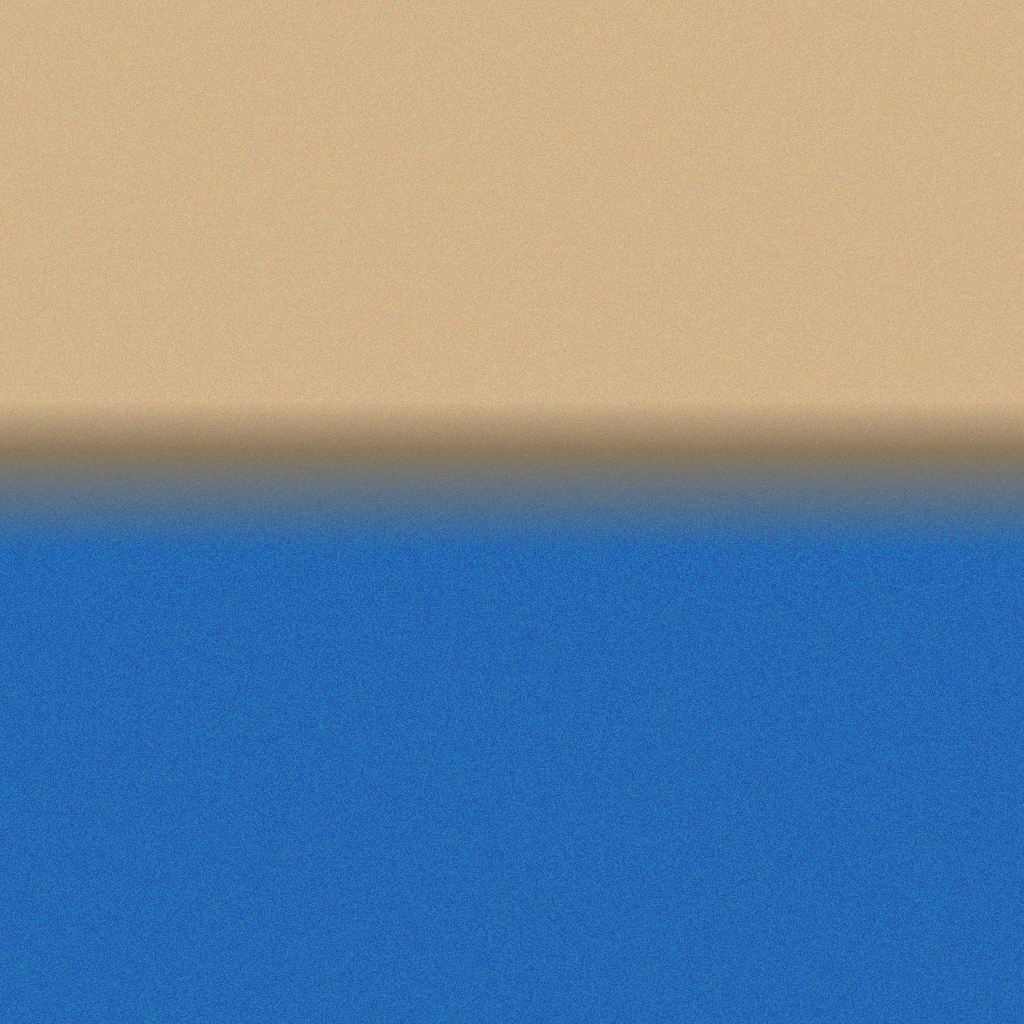
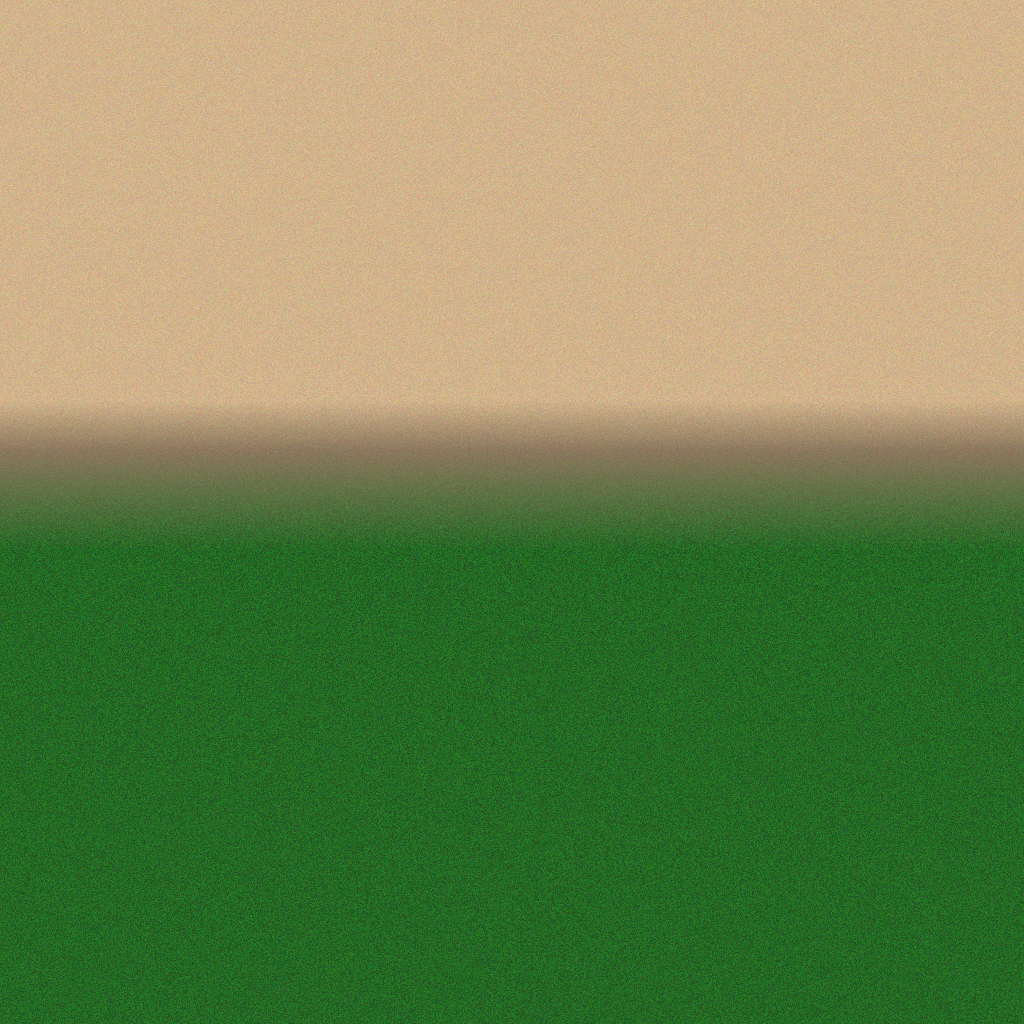
s

diff --git a/RedFortress2/MultiPassRendering/GameApp.cpp b/RedFortress2/MultiPassRendering/GameApp.cpp
@@ -1209,7 +1209,7 @@ void GameApp::UpdatePlayerByInput()
     }
 
     const bool isMoving  = (localMove.x != 0.0f || localMove.z != 0.0f);
-    const bool isWalking = isMoving && InputDevice::SKeyBoard::IsDown(DIK_LSHIFT);
+    const bool isWalking = isMoving && InputDevice::SKeyBoard::IsDown(DIK_LCONTROL);
 
     PhysicsLib::CharacterMover::Settings settings = m_playerMover.GetSettings();
     const float walkSpeed = 2.25f;
@@ -1281,7 +1281,7 @@ void GameApp::UpdatePlayerByInput()
             float animationSpeed = 1.0f;
             if (nextState == PlayerAnimState::Run)
             {
-                animationSpeed = 1.2f;
+                animationSpeed = 2.0f;
             }
             else if (nextState == PlayerAnimState::Walk)
             {